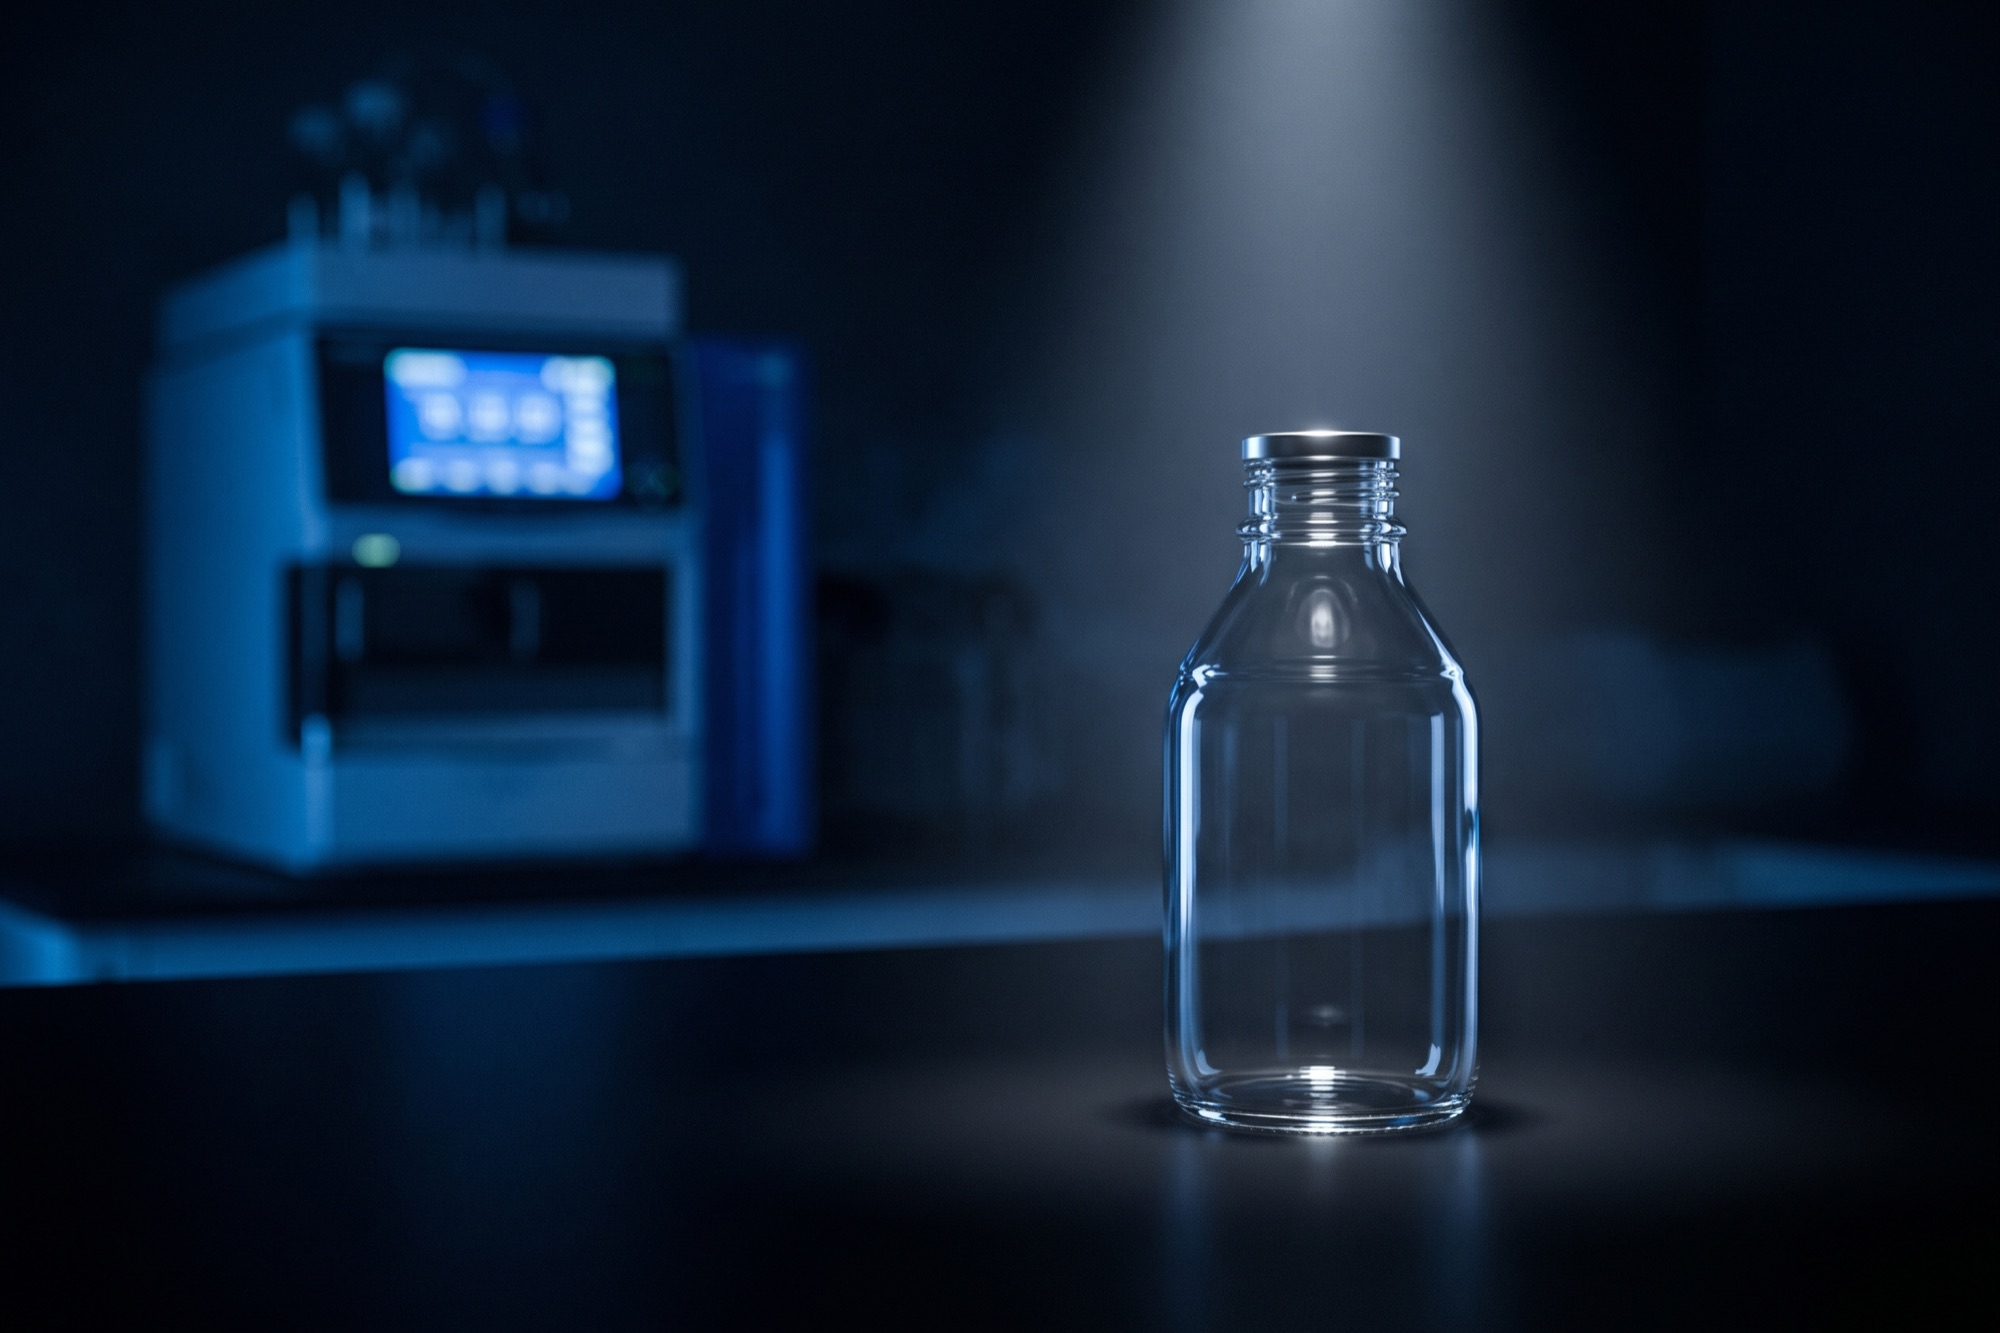
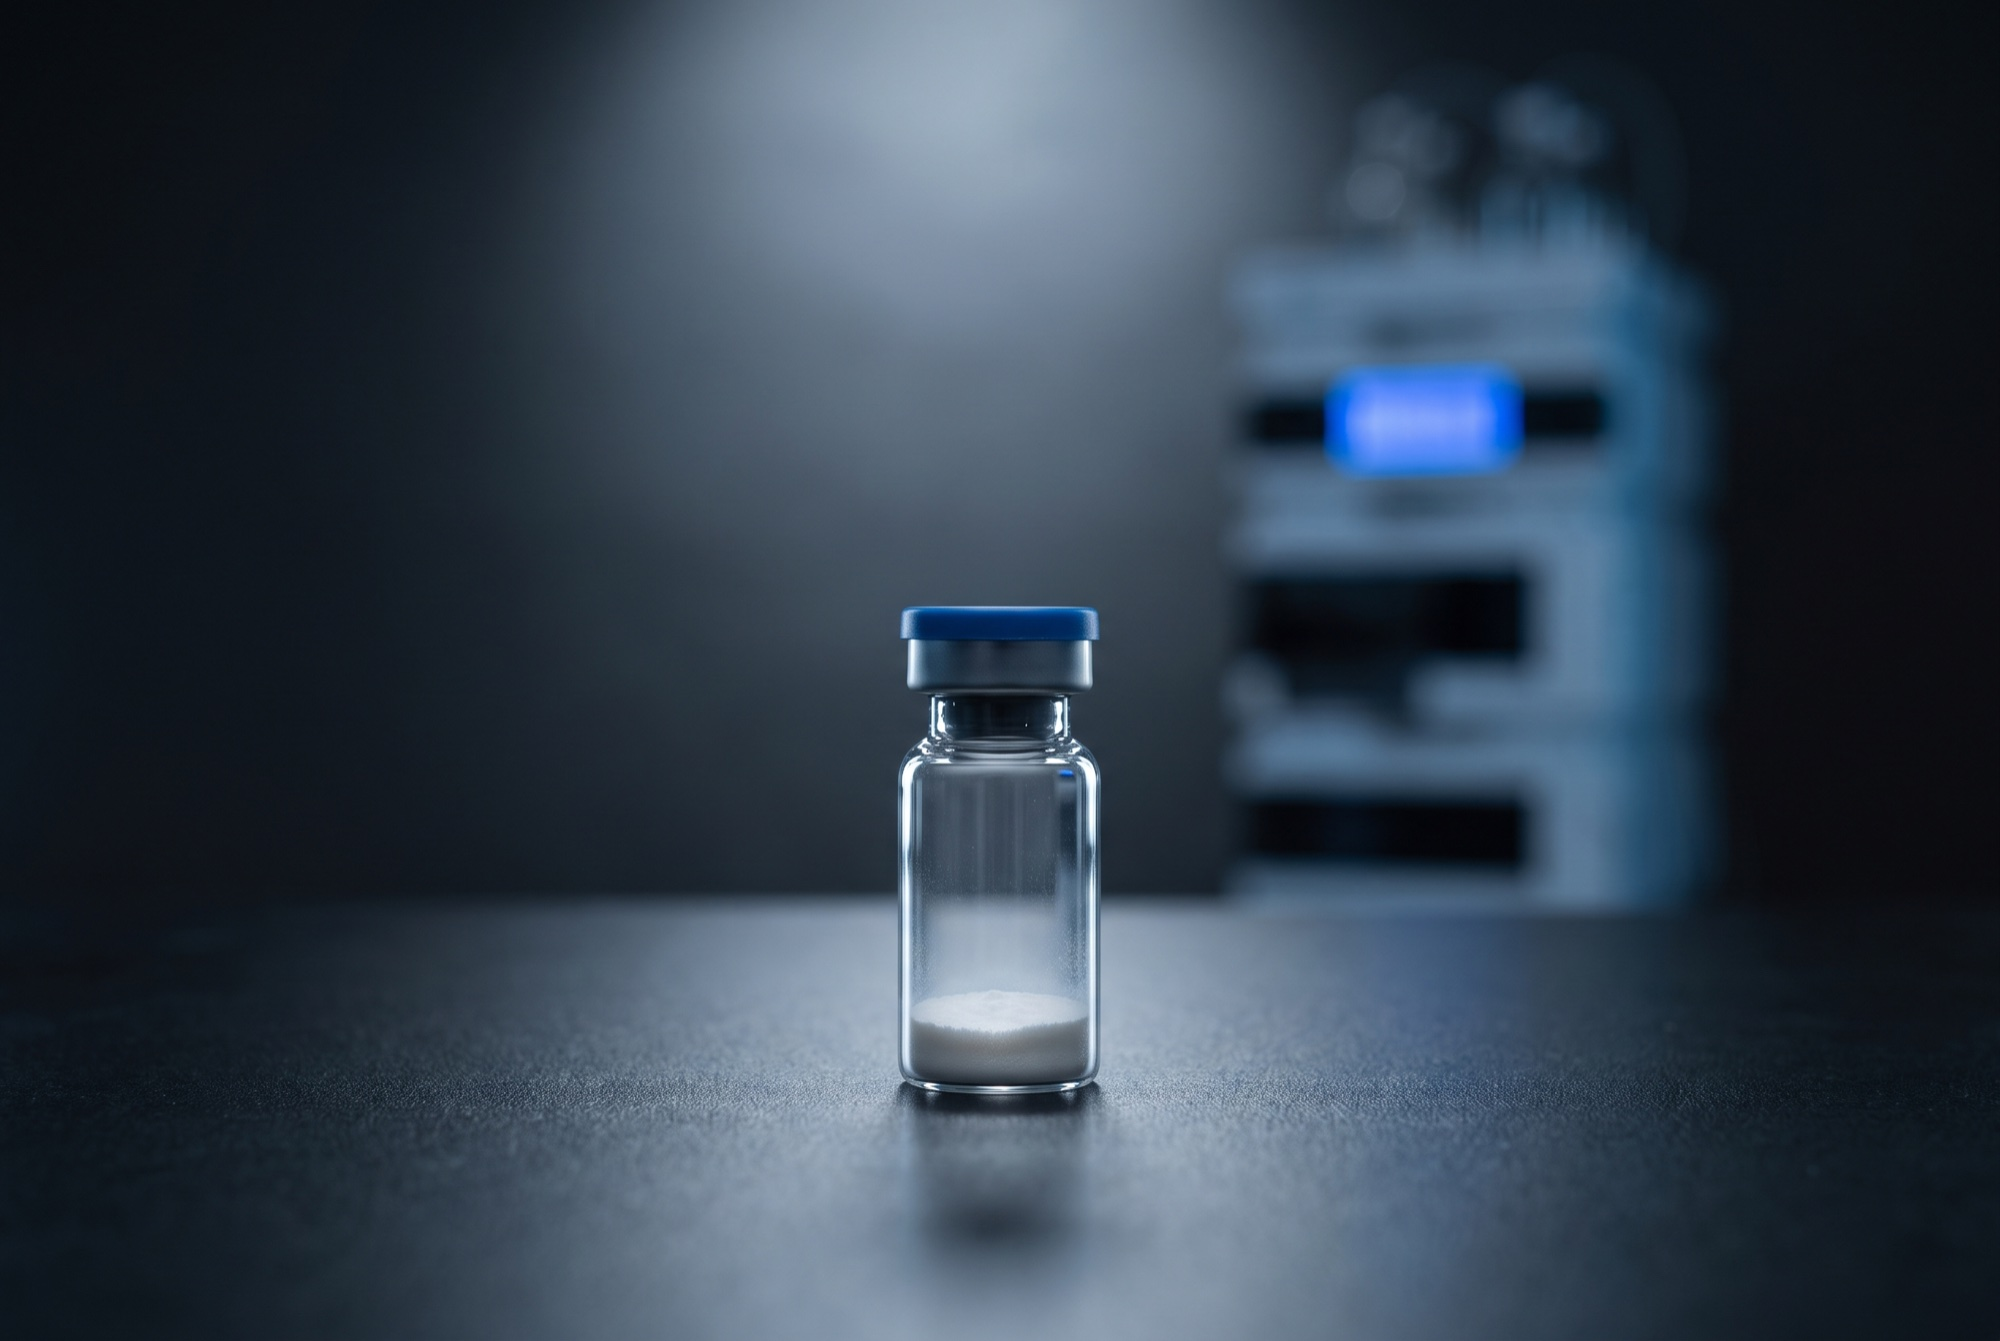
Echtes Peptid-Vial in der Chargen-Tile, Bildband und 31 auf der Wirkstoff-Uebersicht

diff --git a/data/i18n/wirkstoffe-index.js b/data/i18n/wirkstoffe-index.js
@@ -16,11 +16,12 @@ window.PK.i18n = window.PK.i18n || { de: {}, en: {} };
     "page.wirkstoffe-index.title": "Wirkstoffe · Peptide Compass",
     "page.wirkstoffe-index.metaDescription": "15 Peptide im Überblick: Kategorie, Studienlage und Kurzbeschreibung, neutral erklärt. Nur für Forschungszwecke, keine medizinische Beratung.",
     "page.wirkstoffe-index.ogTitle": "Wirkstoffe · Peptide Compass",
-    "page.wirkstoffe-index.ogDescription": "15 Substanzen, kurz und sachlich erklärt.",
+    "page.wirkstoffe-index.ogDescription": "31 Substanzen, kurz und sachlich erklärt.",
 
     "page.wirkstoffe-index.eyebrow": "Wirkstoff-Wissen",
     "page.wirkstoffe-index.h1": "Wirkstoffe im Überblick",
-    "page.wirkstoffe-index.lead": "15 Substanzen, kurz und sachlich erklärt.",
+    "page.wirkstoffe-index.lead": "31 Substanzen, kurz und sachlich erklärt.",
+    "page.wirkstoffe-index.bandImgAlt": "Peptidkette als Glasmodell im Studio",
 
     "page.wirkstoffe-index.disclaimerEyebrow": "Hinweis",
     "page.wirkstoffe-index.disclaimerFallback": "Alle genannten Substanzen sind ausschließlich für Forschungszwecke bestimmt. Keine medizinische Beratung, keine Empfehlung zur Anwendung am Menschen. Nur für Personen ab 18 Jahren.",
@@ -39,11 +40,12 @@ window.PK.i18n = window.PK.i18n || { de: {}, en: {} };
     "page.wirkstoffe-index.title": "Peptides · Peptide Compass",
     "page.wirkstoffe-index.metaDescription": "15 peptides at a glance: category, research stage, and a short description, explained neutrally. Research use only, not medical advice.",
     "page.wirkstoffe-index.ogTitle": "Peptides · Peptide Compass",
-    "page.wirkstoffe-index.ogDescription": "15 substances, explained briefly and factually.",
+    "page.wirkstoffe-index.ogDescription": "31 substances, explained briefly and factually.",
 
     "page.wirkstoffe-index.eyebrow": "Peptide knowledge",
     "page.wirkstoffe-index.h1": "Peptides at a glance",
-    "page.wirkstoffe-index.lead": "15 substances, explained briefly and factually.",
+    "page.wirkstoffe-index.lead": "31 substances, explained briefly and factually.",
+    "page.wirkstoffe-index.bandImgAlt": "Peptide chain as a glass model in the studio",
 
     "page.wirkstoffe-index.disclaimerEyebrow": "Note",
     "page.wirkstoffe-index.disclaimerFallback": "All substances listed here are intended for research purposes only. This is not medical advice, and none of these products are recommended for human use. For persons 18 and older only.",

diff --git a/wirkstoffe/index.html b/wirkstoffe/index.html
@@ -11,11 +11,12 @@
 <link rel="alternate" hreflang="x-default" href="https://peptidkompass.com/wirkstoffe/?lang=de">
 <meta property="og:type" content="website">
 <meta property="og:title" data-i18n="page.wirkstoffe-index.ogTitle" content="Wirkstoffe · Peptide Compass">
-<meta property="og:description" data-i18n="page.wirkstoffe-index.ogDescription" content="15 Substanzen, kurz und sachlich erklärt.">
+<meta property="og:description" data-i18n="page.wirkstoffe-index.ogDescription" content="31 Substanzen, kurz und sachlich erklärt.">
 <meta property="og:url" content="https://peptidkompass.com/wirkstoffe/">
 <meta property="og:image" content="https://peptidkompass.com/assets/img/og.jpg">
 <meta name="twitter:card" content="summary_large_image">
 <link rel="stylesheet" href="../assets/css/system.css">
+<link rel="stylesheet" href="../assets/css/tiles.css">
 <link rel="icon" href="../assets/brand/favicon/favicon.svg" type="image/svg+xml">
 <link rel="icon" href="../assets/brand/favicon/favicon-32.png" sizes="32x32" type="image/png">
 <link rel="apple-touch-icon" href="../assets/brand/favicon/favicon-180.png">
@@ -76,7 +77,14 @@
   <section class="section container reveal">
     <p class="eyebrow" data-i18n="page.wirkstoffe-index.eyebrow">Wirkstoff-Wissen</p>
     <h1 class="h1" data-i18n="page.wirkstoffe-index.h1">Wirkstoffe im Überblick</h1>
-    <p class="section-lead" data-i18n="page.wirkstoffe-index.lead">15 Substanzen, kurz und sachlich erklärt.</p>
+    <p class="section-lead" data-i18n="page.wirkstoffe-index.lead">31 Substanzen, kurz und sachlich erklärt.</p>
+  </section>
+
+  <!-- BILDBAND: Peptidkette in Glas (Vic 14.09.: Bild oberhalb des Hinweises) -->
+  <section class="container reveal">
+    <figure class="visual-band">
+      <img src="../assets/img/sci_chain.jpg" alt="" loading="eager" decoding="async" onerror="this.parentNode.style.display='none'" data-i18n-attr="alt:page.wirkstoffe-index.bandImgAlt">
+    </figure>
   </section>
 
   <!-- HINWEIS: NUR FORSCHUNGSZWECKE -->

diff --git a/assets/css/tiles.css b/assets/css/tiles.css
@@ -50,3 +50,10 @@
 .podium-card{ min-width:0; }
 .podium-code.code-box{ flex-wrap:wrap; }
 .podium-code .code-box-hint{ flex-basis:100%; }
+
+/* Bildband unter dem Seitenkopf (Wirkstoffe-Übersicht): ruhiges 21:9-Bild,
+   Karten-Radius, kein Schatten (DESIGN.md), leichter Ken-Burns über die
+   bestehende .reveal-Logik ist nicht nötig, Bild bleibt statisch. */
+.visual-band{ margin:0; border-radius:var(--radius-card); overflow:hidden; aspect-ratio:21/9; background:var(--surface-2); }
+.visual-band img{ width:100%; height:100%; object-fit:cover; display:block; }
+@media (max-width:640px){ .visual-band{ aspect-ratio:16/10; } }

diff --git a/wirkstoffe/detail.html b/wirkstoffe/detail.html
@@ -16,6 +16,7 @@
 <meta property="og:image" content="https://peptidkompass.com/assets/img/og.jpg">
 <meta name="twitter:card" content="summary_large_image">
 <link rel="stylesheet" href="../assets/css/system.css">
+<link rel="stylesheet" href="../assets/css/tiles.css">
 <link rel="icon" href="../assets/brand/favicon/favicon.svg" type="image/svg+xml">
 <link rel="icon" href="../assets/brand/favicon/favicon-32.png" sizes="32x32" type="image/png">
 <link rel="apple-touch-icon" href="../assets/brand/favicon/favicon-180.png">
